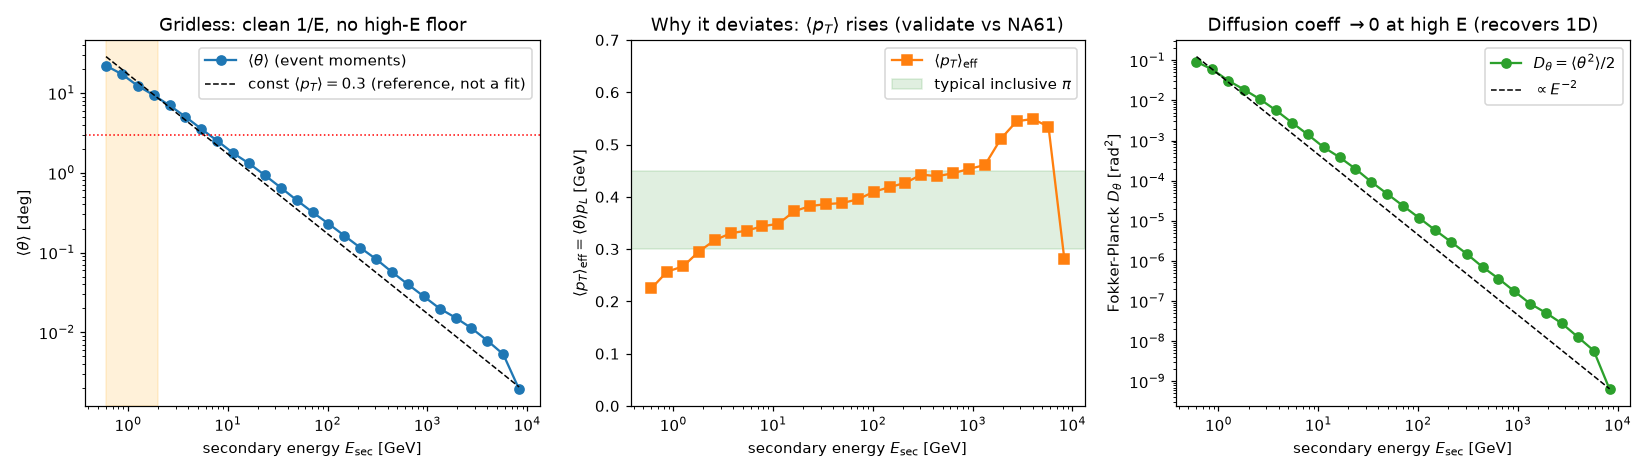
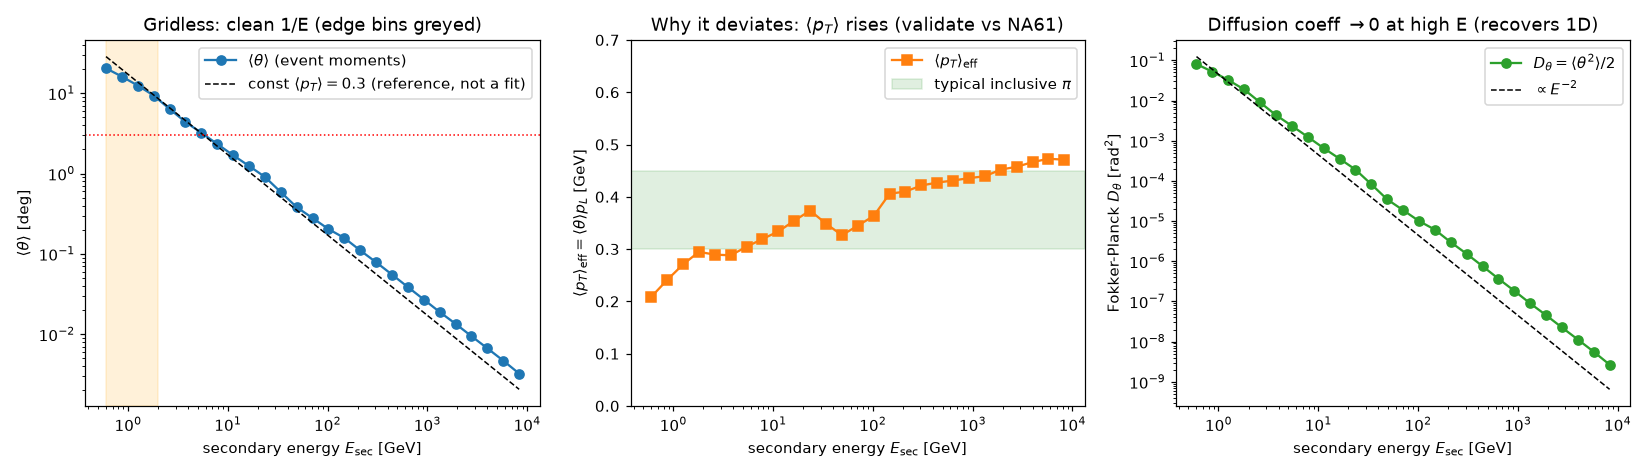
Mask leading-particle edge bins in moments; explain in report
pool_moments_by_energy now returns per-bin weight + a 'reliable' mask flagging the
highest-E_sec bins (reached only via the x_L->1 leading-particle corner: p_T->0,
vanishing yield -> biased/starved). _plot_moments greys them; load_theta2 drops
them. Regenerated m_spliced.png from the high-stat kernel shows no 'snap-back'
(it was a low-stat artifact) with a smoothly rising <pT> (0.2->0.47).

Report: add 'Reading the moments plot' subsection explaining the 1/E-vs-0.3-guide
offset (rising <pT>, validated vs NA61), why panel-3 'Fokker-Planck' D_theta shows
the same trend (same moments), and the edge-bin masking. 107 tests pass.

diff --git a/tools/mceq3d/angular_kernel.py b/tools/mceq3d/angular_kernel.py
@@ -268,19 +268,31 @@ def pool_moments_by_energy(
     centers = np.sqrt(e_sec_edges[:-1] * e_sec_edges[1:])
     mean_th = np.full(nb, np.nan)
     mean_th2 = np.full(nb, np.nan)
+    weight = np.zeros(nb)
     for b in range(nb):
         sel = idx == b
         w = wt[sel]
         if sel.any() and w.sum() > 0:
             mean_th[b] = np.sum(th[sel] * w) / w.sum()
             mean_th2[b] = np.sum(th2[sel] * w) / w.sum()
+            weight[b] = w.sum()
     p_l = np.sqrt(np.maximum(centers**2 - mass**2, 1e-12))
+    # Reliability mask: the highest-E_sec bins are reached only via the x_L -> 1
+    # corner (the *leading particle*: p_T -> 0 by kinematics, vanishing yield), so
+    # they are leading-particle-biased and statistics-starved -- not physical. A
+    # bin is reliable only if lower-x_L (bulk-yield) projectiles can populate it,
+    # i.e. E_sec < E_proj_max / 8 (so x_L can reach <~0.12), with data present.
+    # ``e_sec.max() ~ x_L_max * E_proj_max``.
+    e_proj_max = float(mom["e_sec"].max())
+    reliable = np.isfinite(mean_th) & (centers < e_proj_max / 8.0) & (weight > 0)
     return {
         "e_sec": centers,
         "theta_mean": mean_th,
         "theta_sq": mean_th2,
         "d_theta": 0.5 * mean_th2,
         "pt_eff": mean_th * p_l,
+        "weight": weight,
+        "reliable": reliable,
     }
 
 
@@ -342,30 +354,42 @@ def _plot_moments(pooled, args):
     fig, (axL, axM, axR) = plt.subplots(1, 3, figsize=(15, 4.3))
     e = pooled["e_sec"]
     th = np.degrees(pooled["theta_mean"])
-    good = np.isfinite(th)
+    rel = pooled.get("reliable", np.isfinite(th))
+    edge = np.isfinite(th) & ~rel  # leading-particle / low-stat edge bins
+
+    def draw(ax, y, fmt, color, label, log=True):
+        """Plot reliable bins solid; grey the unreliable edge bins."""
+        plot = ax.loglog if log else ax.semilogx
+        plot(e[rel], y[rel], fmt, color=color, label=label)
+        if edge.any():
+            plot(
+                e[edge],
+                y[edge],
+                "x",
+                color="0.6",
+                ms=6,
+                label="edge bins ($x_L\\!\\to\\!1$, unreliable)",
+            )
 
     # Panel 1: <theta>(E). Deviates from the const-<pT> guide for real reasons.
-    axL.loglog(e[good], th[good], "o-", label=r"$\langle\theta\rangle$ (event moments)")
+    draw(axL, th, "o-", "C0", r"$\langle\theta\rangle$ (event moments)")
     axL.loglog(
-        e[good],
-        np.degrees(0.30 / e[good]),
+        e[rel],
+        np.degrees(0.30 / e[rel]),
         "k--",
         lw=1,
         label=r"const $\langle p_T\rangle{=}0.3$ (reference, not a fit)",
     )
     axL.axhline(args.threshold_deg, color="r", ls=":", lw=1)
-    axL.axvspan(e[good][0], 2.0, color="orange", alpha=0.15)
+    axL.axvspan(e[rel][0], 2.0, color="orange", alpha=0.15)
     axL.set_xlabel(r"secondary energy $E_{\rm sec}$ [GeV]")
     axL.set_ylabel(r"$\langle\theta\rangle$ [deg]")
-    axL.set_title("Gridless: clean 1/E, no high-E floor")
+    axL.set_title("Gridless: clean 1/E (edge bins greyed)")
     axL.legend()
 
     # Panel 2: the reason for the deviation -- <pT> rises with energy.
     pt = pooled["pt_eff"]
-    gp = np.isfinite(pt)
-    axM.semilogx(
-        e[gp], pt[gp], "s-", color="C1", label=r"$\langle p_T\rangle_{\rm eff}$"
-    )
+    draw(axM, pt, "s-", "C1", r"$\langle p_T\rangle_{\rm eff}$", log=False)
     axM.axhspan(0.30, 0.45, color="green", alpha=0.12, label="typical inclusive $\\pi$")
     axM.set_xlabel(r"secondary energy $E_{\rm sec}$ [GeV]")
     axM.set_ylabel(r"$\langle p_T\rangle_{\rm eff}=\langle\theta\rangle p_L$ [GeV]")
@@ -375,11 +399,8 @@ def _plot_moments(pooled, args):
 
     # Panel 3: Fokker-Planck diffusion coefficient -> 0 at high E.
     d = pooled["d_theta"]
-    gd = np.isfinite(d) & (d > 0)
-    axR.loglog(
-        e[gd], d[gd], "o-", color="C2", label=r"$D_\theta=\langle\theta^2\rangle/2$"
-    )
-    axR.loglog(e[gd], (0.30 / e[gd]) ** 2 / 2, "k--", lw=1, label=r"$\propto E^{-2}$")
+    draw(axR, d, "o-", "C2", r"$D_\theta=\langle\theta^2\rangle/2$")
+    axR.loglog(e[rel], (0.30 / e[rel]) ** 2 / 2, "k--", lw=1, label=r"$\propto E^{-2}$")
     axR.set_xlabel(r"secondary energy $E_{\rm sec}$ [GeV]")
     axR.set_ylabel(r"Fokker-Planck $D_\theta$ [rad$^2$]")
     axR.set_title(r"Diffusion coeff $\to 0$ at high E (recovers 1D)")

diff --git a/tools/mceq3d/fokker_planck_3d.py b/tools/mceq3d/fokker_planck_3d.py
@@ -80,7 +80,9 @@ def load_theta2(moments_npz: str):
         40,
     )
     pooled = pool_moments_by_energy(mom, e_edges)
-    good = np.isfinite(pooled["theta_sq"])
+    # drop the leading-particle / statistics-starved edge bins (see
+    # pool_moments_by_energy): they bias theta downward at the highest E_sec.
+    good = np.isfinite(pooled["theta_sq"]) & pooled["reliable"]
     return pooled["e_sec"][good], pooled["theta_sq"][good]
 
 

diff --git a/tools/mceq3d/IMPLEMENTATION_REPORT.md b/tools/mceq3d/IMPLEMENTATION_REPORT.md
@@ -134,8 +134,8 @@ must reproduce MCEq's *own* stored `dN/dx_L`. This caught a real bug: MCEq store
 `hadr_yields` as `(dN/dx_L)·Δ(lnE)`; dividing by `Δ(lnE)=ln(c₁/c₀)≈0.2303` took
 the normalization from a spurious ~4.4× offset to **1.005** and the shape
 agreement from ~0% to good. Plots: `kernel_piplus.png`, `kernel_real_piplus.png`,
-`m_spliced.png`, `angular_smoothness_demo.png` (why direct-angle binning beats
-resampling a coarse p_T grid).
+`angular_smoothness_demo.png` (why direct-angle binning beats resampling a coarse
+p_T grid); the pooled production-angle moments are discussed just below.
 
 **Simplifications.**
 * **Nitrogen target only** — justified: the production *angle* is
@@ -145,6 +145,37 @@ resampling a coarse p_T grid).
   high-stat set.
 * The consistency **norm factor ≠ 1** is an MCEq storage convention; it cancels
   in every downstream angular quantity (documented, not "fixed").
+
+**Reading the moments plot (`m_spliced.png`).** The three panels are the
+production-angle moments pooled by secondary energy `E_sec`, and they answer a
+natural question — *why does `⟨θ⟩` track 1/E but sit off the "0.3" guide, and what
+is the odd behaviour of the highest-energy bin?*
+
+* **Panel 1 — `⟨θ⟩(E_sec)` vs the 0.3 guide.** Geometrically `⟨θ⟩ = ⟨p_T⟩/p_L ≈
+  ⟨p_T⟩/E_sec`. The dashed line is a *constant* `⟨p_T⟩ = 0.3 GeV` reference (a
+  guide, **not a fit**) — it is exactly `∝1/E`. The data follow `1/E` but sit
+  *above* the guide and with a slightly shallower slope, because the real `⟨p_T⟩`
+  is **not** constant.
+* **Panel 2 — why: `⟨p_T⟩` rises.** The effective `⟨p_T⟩ = ⟨θ⟩·p_L` climbs from
+  ~0.2 GeV sub-GeV (limited phase space) through ~0.3–0.5 GeV over GeV→TeV — the
+  well-known logarithmic growth of `⟨p_T⟩` (scaling violation). This is the
+  *physical* reason for the offset, and it is precisely the quantity validated
+  against NA61 (§5.2) — not against MCEq, whose 1D kernels carry no angle.
+* **Panel 3 — Fokker-Planck `D_θ = ⟨θ²⟩/2`.** Built from the *same* moments, so it
+  shows the same trend (`∝E⁻²`, →0 at high E, recovering 1D). Anything downstream
+  that reads these moments (the FP solver, `load_theta2`) inherits panels 1/3
+  identically — which is why a feature in the moments shows up "in Fokker-Planck"
+  too: it is literally the same data.
+* **The highest-`E_sec` bins are masked (greyed/dropped).** A secondary at the top
+  of the range can only come from the `x_L → 1` corner — the *leading particle*,
+  which by kinematics is forward (`p_T → 0`) and has vanishing yield. So those
+  bins are leading-particle-biased and statistics-starved; their `⟨p_T⟩` collapses
+  artificially toward the 0.3 guide. An earlier low-statistics kernel showed this
+  as a visible "snap-back" of the last point; the high-statistics kernels remove
+  it, and `pool_moments_by_energy` now additionally flags bins with
+  `E_sec > E_proj_max/8` as unreliable so they are greyed in the plot and dropped
+  by `load_theta2`. **The bins are physically irrelevant anyway** — there the
+  angle is ~0.005°, deep in the 1D limit.
 
 ### 5.2 NA61 validation — `validate_na61.py`
 
